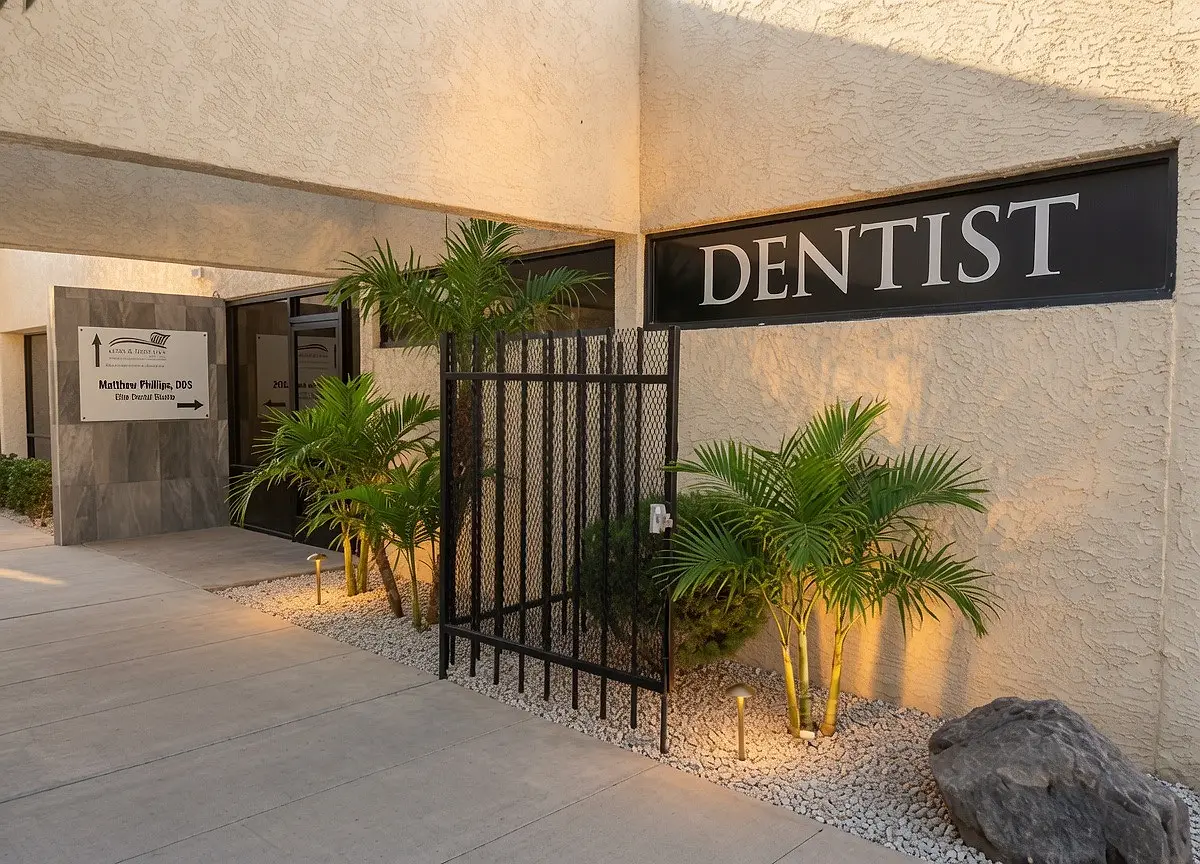
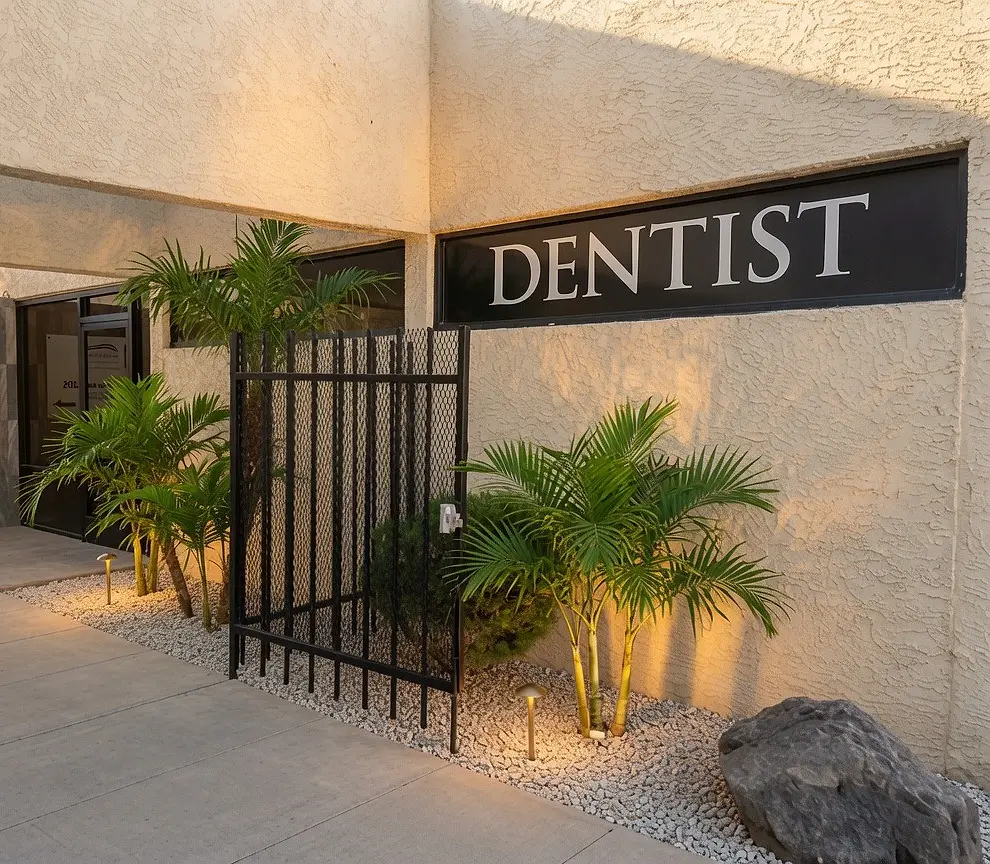
Add exterior photo to Contact page; tighten exterior crop
- Show the office entrance on the Contact page (dark info column) with a
  "look for the DENTIST sign" caption to help patients find us on arrival.
- Re-crop office-exterior.webp to remove the small directory placard on
  the left (which had illegible fine print), keeping the crisp DENTIST
  sign, gate, and palms as the focus. The home-page gallery uses the same
  file, so it benefits too.

Claude-Session: https://claude.ai/code/session_01Kjfe9Jh62btT4NWhzkQb48

diff --git a/src/assets/css/main.css b/src/assets/css/main.css
@@ -258,6 +258,16 @@ main { padding-top: 72px; }
 @media (max-width: 540px) {
   .office-gallery { grid-template-columns: 1fr; }
 }
+.contact-photo {
+  margin: 28px 0 0; border-radius: var(--radius-lg); overflow: hidden;
+  box-shadow: 0 14px 30px rgba(0,0,0,0.28);
+}
+.contact-photo img { width: 100%; height: auto; display: block; }
+.contact-photo figcaption {
+  padding: 12px 16px; font-size: 0.88rem;
+  color: rgba(255,255,255,0.62); background: rgba(255,255,255,0.04);
+}
+.contact-photo figcaption strong { color: var(--gold-light); }
 
 /* ── Services grid ── */
 .services-grid {
